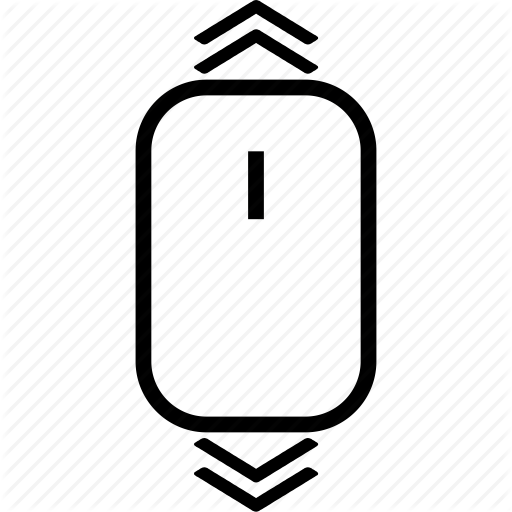
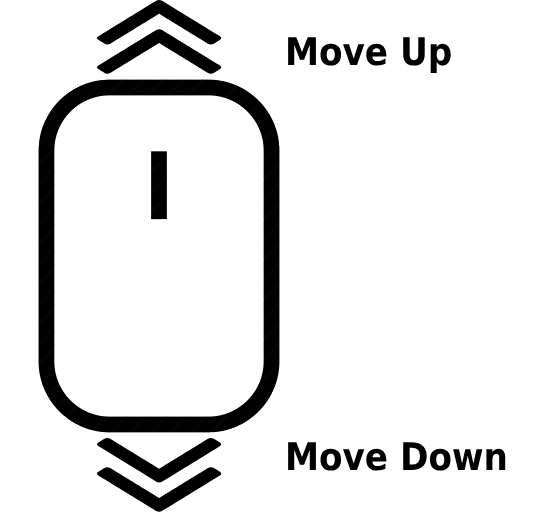
Added control image to pong

Changed region(s): [[0.0625, 0.0, 0.75, 1.0], [0.7188, 0.8438, 0.9062, 0.9375], [0.7188, 0.0625, 0.8125, 0.1562]]

diff --git a/style/pong.css b/style/pong.css
@@ -173,3 +173,6 @@ h2{font-family: 'Luckiest Guy', cursive;
     padding: 0;
     background-color: white;
 }
+#pongControls {
+    margin: 10px;
+}

diff --git a/index.php b/index.php
@@ -107,6 +107,7 @@
                 <h2>High Score</h2>
                 <ol id="pongHighscoreList"></ol>
             </div>
+            <img id="pongControls" src="img/pongControls.png" width="200" height="200">
         </div>
 
         <div class="item2">
